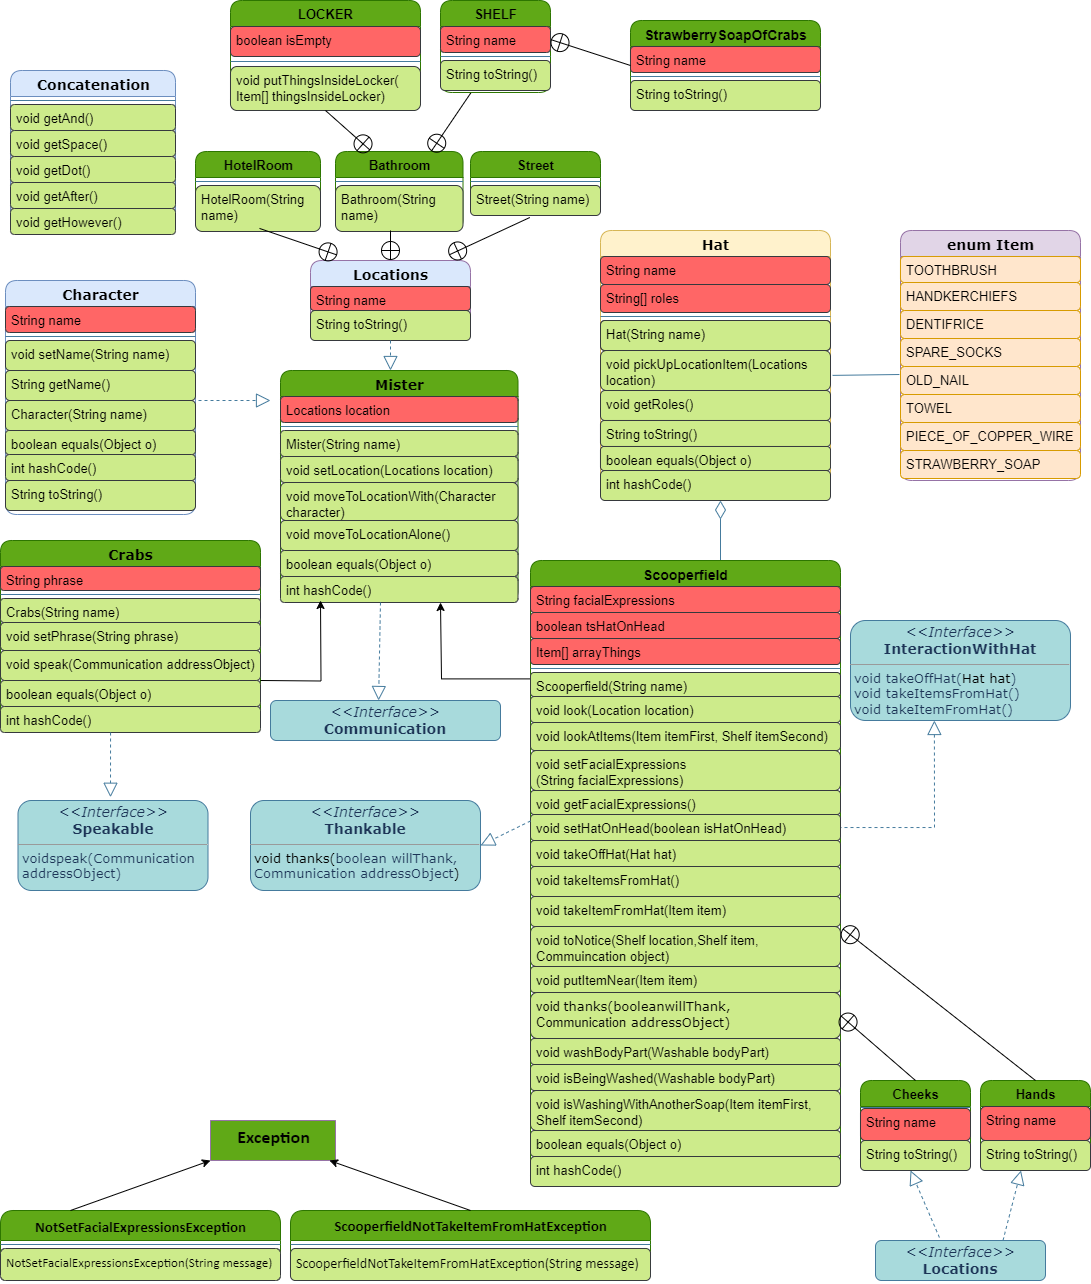
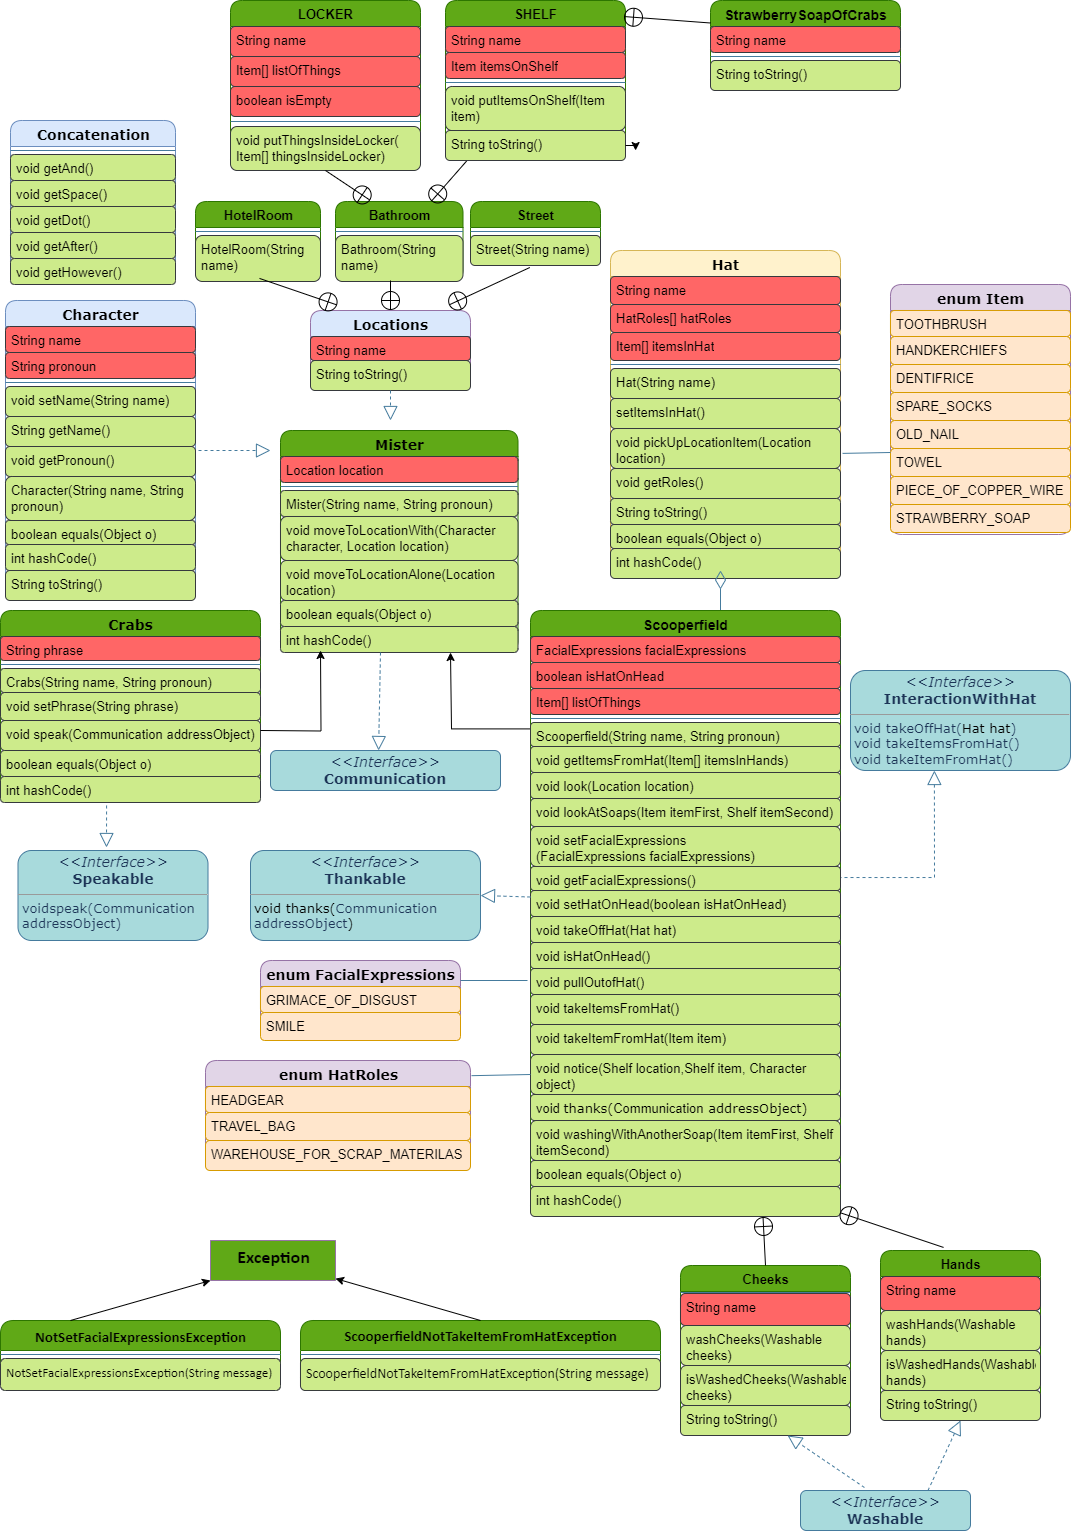
1. Corrected naming 2. Updated UML

diff --git a/src/main/java/аctors/Scooperfield.java b/src/main/java/аctors/Scooperfield.java
@@ -22,14 +22,14 @@ public class Scooperfield extends Mister implements Thankable, InteractionWithHa
     // Массив для хранения предметов (в руках)
     private Item[] listOfThings;
 
-    // Достать масив из шляпы
-    public void getItemsFromHat(Item[] itemsInHand) {
-        listOfThings = itemsInHand;
-    }
-
     // Имя персонажа (Крабс)
     public Scooperfield(String name, String pronoun) {
         super(name, pronoun);
+    }
+
+    // Достать масив из шляпы
+    public void getItemsFromHat(Item[] itemsInHands) {
+        listOfThings = itemsInHands;
     }
 
     // Метод осмотр локации (улица, комната или ванная комната)
@@ -78,7 +78,7 @@ public class Scooperfield extends Mister implements Thankable, InteractionWithHa
     }
 
 
-    public void pullOutOFHat() {
+    public void pullOutOfHat() {
         System.out.print(" pulled out of it: ");
     }
 
@@ -102,8 +102,8 @@ public class Scooperfield extends Mister implements Thankable, InteractionWithHa
     }
 
     // Метод "замечать где"
-    public void notice(Bathroom.Shelf locations, Bathroom.Shelf.StrawberrySoapOfCrabs item, Character object) {
-        System.out.print("but then noticed on " + locations + " at the washstand, exactly the same " + item + "belonging to " + object + ", ");
+    public void notice(Bathroom.Shelf location, Bathroom.Shelf.StrawberrySoapOfCrabs item, Character object) {
+        System.out.print("but then noticed on " + location + " at the washstand, exactly the same " + item + "belonging to " + object + ", ");
     }
 
     @Override
@@ -112,7 +112,7 @@ public class Scooperfield extends Mister implements Thankable, InteractionWithHa
         System.out.println("Mr." + getName() + " thanked " + "Mr." + addressObject);
     }
 
-    public void isWashingWithAnotherSoap(Item itemFirst, Bathroom.Shelf.StrawberrySoapOfCrabs itemSecond) {
+    public void washingWithAnotherSoap(Item itemFirst, Bathroom.Shelf.StrawberrySoapOfCrabs itemSecond) {
         System.out.println(itemFirst + " but with " + itemSecond + "that lay nearby.");
     }
 

diff --git a/src/main/java/Main.java b/src/main/java/Main.java
@@ -65,7 +65,7 @@ public class Main {
         // Соединяем строки
         сoncatenation.getAnd();
         // Вывод на экран текста достать из шляпы
-        scooperfield.pullOutOFHat();
+        scooperfield.pullOutOfHat();
         // Перемещаем предмет из шляпы в руки
         scooperfield.getItemsFromHat(hat.itemsInHat);
         /* Достаем вещи из шляпы (расписал для каждого предмета, если надо будет достать определенный)*/
@@ -131,7 +131,7 @@ public class Main {
         сoncatenation.getHowever();
         сoncatenation.getSpace();
         // Метод помыть другим мылом
-        scooperfield.isWashingWithAnotherSoap(Item.STRAWBERRY_SOAP, strawberrySoapOfCrabs);
+        scooperfield.washingWithAnotherSoap(Item.STRAWBERRY_SOAP, strawberrySoapOfCrabs);
 
 
         // Анонимный класс ресторан

diff --git a/src/main/java/locations/Bathroom.java b/src/main/java/locations/Bathroom.java
@@ -32,7 +32,7 @@ public class Bathroom extends Location {
     // Создаем класс Shelf
     public static class Shelf {
         private String name;
-        private Item placeOnShelf;
+        private Item itemsOnShelf;
 
         public Shelf(String name) {
             this.name = name;
@@ -40,7 +40,7 @@ public class Bathroom extends Location {
 
         // Метод положить предмет рядом на полку
         public void putItemOnShelf(Item item) {
-            placeOnShelf = item;
+            itemsOnShelf = item;
             System.out.print("Put his " + item + " near, ");
         }
 

diff --git a/src/main/java/hat/Hat.java b/src/main/java/hat/Hat.java
@@ -17,13 +17,14 @@ public class Hat {
     // Массив предметов
     public Item[] itemsInHat;
 
-    public void setItemsInHat() {
-        itemsInHat = Item.values();
-    }
-
     // Имя объекта
     public Hat(String name) {
         this.name = name;
+    }
+
+    // Сохранение массива
+    public void setItemsInHat() {
+        itemsInHat = Item.values();
     }
 
     // Метод, который выводит место подбора предметов
